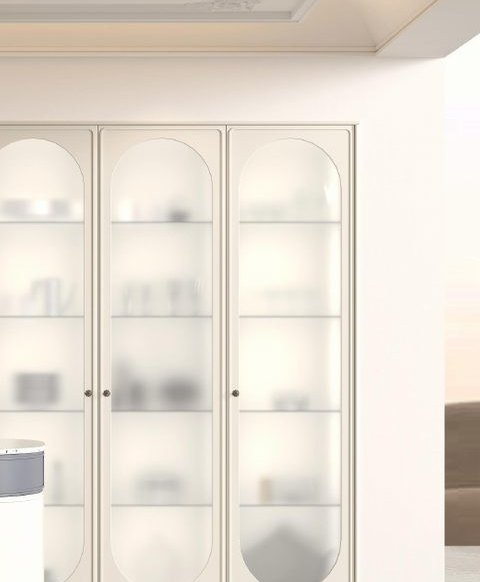
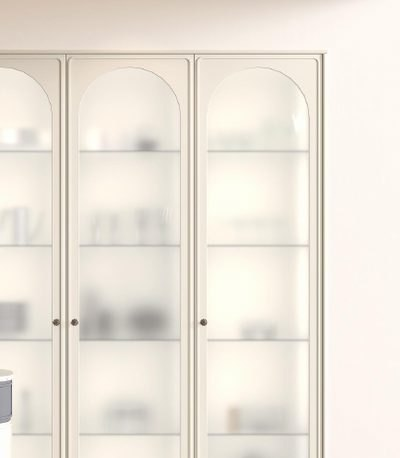
Steel: recrop doors 03/05/06; add photos to the care cards

diff --git a/systems/steel.html b/systems/steel.html
@@ -120,7 +120,7 @@
         </li>
         <li>
           <span class="lp-list__label">03</span>
-          <div class="lp-list__thumb" style="background-image:url('/assets/systems/steel/door-03.jpg')"></div>
+          <div class="lp-list__thumb" style="background-image:url('/assets/systems/steel/door-03.jpg?v=2')"></div>
           <span class="lp-list__text" data-zh="弧型 · 上下做成弧线，转角摸着圆。" data-en="Arc · curved top and bottom, softer to the touch.">弧型 · 上下做成弧线，转角摸着圆。</span>
         </li>
         <li>
@@ -130,12 +130,12 @@
         </li>
         <li>
           <span class="lp-list__label">05</span>
-          <div class="lp-list__thumb" style="background-image:url('/assets/systems/steel/door-05.jpg')"></div>
+          <div class="lp-list__thumb" style="background-image:url('/assets/systems/steel/door-05.jpg?v=2')"></div>
           <span class="lp-list__text" data-zh="隐框岩板 · 岩板贴在钢板上，耐腐蚀、耐高温，适合高强度厨房。" data-en="Frameless stone · sintered surface on steel. Heat- and stain-resistant, for a hard-working kitchen.">隐框岩板 · 岩板贴在钢板上，耐腐蚀、耐高温，适合高强度厨房。</span>
         </li>
         <li>
           <span class="lp-list__label">06</span>
-          <div class="lp-list__thumb" style="background-image:url('/assets/systems/steel/door-06.jpg')"></div>
+          <div class="lp-list__thumb" style="background-image:url('/assets/systems/steel/door-06.jpg?v=2')"></div>
           <span class="lp-list__text" data-zh="晶钻门 · 切面立体，光一照会亮，适合客厅酒柜。" data-en="Crystal · faceted panels that catch light. Good on wine cabinets.">晶钻门 · 切面立体，光一照会亮，适合客厅酒柜。</span>
         </li>
         <li>
@@ -165,7 +165,6 @@
         <p class="section__sub"
           data-zh="整体厨房、定制衣柜、酒柜、浴室柜、阳台柜、玄关柜。同一套材料、同一种工艺，家里怕水、怕火、怕旧的地方都能用。"
           data-en="Kitchen, wardrobe, wine cabinet, vanity, balcony, entry. Same material, same craft — anywhere a wooden cabinet would struggle with water, heat or wear.">
-          data-en="Integrated kitchen · custom wardrobe · wine cabinet · vanity · balcony · entryway — one material, one craft, across every scenario where a space must contend with water, fire and time.">
         </p>
       </div>
       <div class="lp-gallery">
@@ -184,10 +183,34 @@
         <h2 class="h2" data-zh="十年之后，它还是那块钢。" data-en="Ten years on, it is still a quiet plate of steel.">十年之后，它还是那块钢。</h2>
       </div>
       <div class="lp-grid">
-        <article class="lp-card"><span class="lp-card__num">✳</span><h3 class="lp-card__title" data-zh="日常" data-en="Daily">日常</h3><p class="lp-card__desc" data-zh="软布+清水或中性清洁剂擦拭即可。" data-en="Wipe with a soft cloth, water or neutral detergent.">软布+清水或中性清洁剂擦拭即可。</p></article>
-        <article class="lp-card"><span class="lp-card__num">✳</span><h3 class="lp-card__title" data-zh="油污" data-en="Grease">油污</h3><p class="lp-card__desc" data-zh="厨房清洁剂静置几分钟，顺纹路擦拭。" data-en="Kitchen degreaser, let sit, wipe along the grain.">厨房清洁剂静置几分钟，顺纹路擦拭。</p></article>
-        <article class="lp-card"><span class="lp-card__num">✳</span><h3 class="lp-card__title" data-zh="划痕" data-en="Scratches">划痕</h3><p class="lp-card__desc" data-zh="轻微划痕可用细砂纸顺纹理复原。" data-en="Light scratches restored with fine sandpaper along the grain.">轻微划痕可用细砂纸顺纹理复原。</p></article>
-        <article class="lp-card"><span class="lp-card__num">✳</span><h3 class="lp-card__title" data-zh="质保" data-en="Warranty">质保</h3><p class="lp-card__desc" data-zh="10 年结构质保，30 年可修复。" data-en="10-year structural warranty. Repairable for 30.">10 年结构质保，30 年可修复。</p></article>
+        <article class="lp-card">
+          <div class="lp-card__thumb" style="background-image:url('/assets/systems/steel/care-daily.jpg')"></div>
+          <div class="lp-card__body">
+            <span class="lp-card__num">✳</span><h3 class="lp-card__title" data-zh="日常" data-en="Daily">日常</h3>
+            <p class="lp-card__desc" data-zh="软布加清水，或中性清洁剂，擦一下就好。" data-en="A soft cloth, water or a mild cleaner. That's the daily.">软布加清水，或中性清洁剂，擦一下就好。</p>
+          </div>
+        </article>
+        <article class="lp-card">
+          <div class="lp-card__thumb" style="background-image:url('/assets/systems/steel/care-grease.jpg')"></div>
+          <div class="lp-card__body">
+            <span class="lp-card__num">✳</span><h3 class="lp-card__title" data-zh="油污" data-en="Grease">油污</h3>
+            <p class="lp-card__desc" data-zh="厨房清洁剂静置几分钟，顺着纹路擦。" data-en="Kitchen degreaser, let it sit, wipe along the grain.">厨房清洁剂静置几分钟，顺着纹路擦。</p>
+          </div>
+        </article>
+        <article class="lp-card">
+          <div class="lp-card__thumb" style="background-image:url('/assets/systems/steel/care-scratch.jpg')"></div>
+          <div class="lp-card__body">
+            <span class="lp-card__num">✳</span><h3 class="lp-card__title" data-zh="划痕" data-en="Scratches">划痕</h3>
+            <p class="lp-card__desc" data-zh="轻划痕用细砂纸顺着纹理打磨，可以复原。" data-en="Light scratches: fine sandpaper along the grain, and it comes back.">轻划痕用细砂纸顺着纹理打磨，可以复原。</p>
+          </div>
+        </article>
+        <article class="lp-card">
+          <div class="lp-card__thumb" style="background-image:url('/assets/systems/steel/care-warranty.jpg')"></div>
+          <div class="lp-card__body">
+            <span class="lp-card__num">✳</span><h3 class="lp-card__title" data-zh="质保" data-en="Warranty">质保</h3>
+            <p class="lp-card__desc" data-zh="结构保十年，三十年内都可以修。" data-en="10-year structure warranty. Repairable for 30.">结构保十年，三十年内都可以修。</p>
+          </div>
+        </article>
       </div>
     </div>
   </section>
